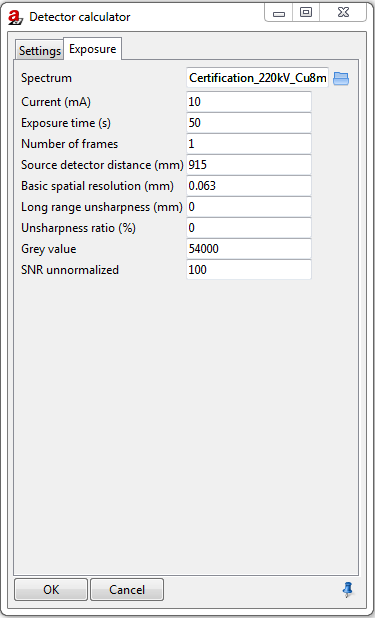
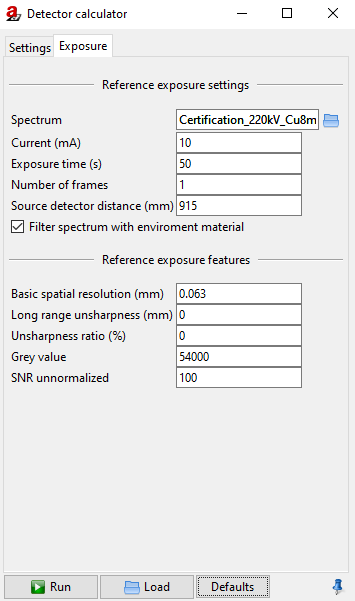
Module - DetectorCalc - neue Formatierung, Bilder, Text

Changed region(s): [[0.0, 0.0, 1.0, 1.0], [0.7437, 0.4193, 0.8366, 0.4493]]

diff --git a/source/modules-detectorcalc.rst b/source/modules-detectorcalc.rst
@@ -5,10 +5,11 @@
 DetectorCalc
 ============
 
-.. 3.4	DetectorCalc (incl. menu description)
+The **DetectorCalc** module opens the Detector calculator (:numref:`detectorcalcSettingsgeneral`). It is useful for the detector's flat panel settings and calculating the captured photons. 
 
-The DetectorCalc module opens the Detector calculator (:numref:`detectorcalcSettingsgeneral`). It is useful for the detector's flat panel settings and calculating the captured photons. 
-In addition to the more general DetectorCalc there is a simplified detector calculator: :ref:`DigRad <DigRadSection>`.
+.. hint::
+    
+    In addition to the more general DetectorCalc there is a simplified detector calculator: :ref:`DigRad <DigRadSection>`.
 
 .. _detectorcalcSettingsgeneral:
 .. figure:: pictures/modules-artist-detectorcalc-settings.png
@@ -17,7 +18,12 @@ In addition to the more general DetectorCalc there is a simplified detector calc
 
     Detector calculator, Settings.
 
-.. _DetectorCalcGeneralSettingsSubSection:
+.. _DetectorSettingsSubSection:
+
+Settings
+--------
+
+.. _DetectorCalcGeneralSettingsSubsubSection:
 
 General Settings
 ^^^^^^^^^^^^^^^^
@@ -31,7 +37,7 @@ Set the general settings for your new detector:
 * **Maximum grey value**
 * **Grey value quantum (GV)**
 
-.. _DetectorCalcGeneralSensitivitySubSection:
+.. _DetectorCalcGeneralSensitivitySubsubSection:
 
 Sensitivity
 ^^^^^^^^^^^
@@ -41,44 +47,38 @@ Set the sensitivity for your new detector:
 * **Material**
 * **Thickness (mm)**
 * **Steps**
-  
-The amount of Steps are relevant for the layer model. The more steps you set, the more accurate the simulation will be. 
-Thereby the execution time will increase. Typically two steps will be enough.
+
+  .. note::
+
+    The amount of Steps are relevant for the layer model. The more steps you set, the more accurate the simulation will be. 
+    Thereby the execution time will increase. Typically two steps will be enough.
 
 * **Min Energy (keV)**
 * **Max Energy (keV)**
 * **Signal Type**
   
-.. _DetectorCalcGeneralFiltrationSubSection:
+.. _DetectorCalcGeneralFiltrationSubsubSection:
 
 Filtration
 ^^^^^^^^^^
 
 It is possible to add a filtration over the new detector.
 
-        |16x16_list-add| Click on the green button to add a filter (default filter is Al with 1.0 mm thickness).
+|16x16_list-add| Click on the green button to add a filter (default filter is Al with 1.0 mm thickness).
 
-        |16x16_edit-delete| Click on the red button to delete a selected filter.
+|16x16_edit-delete| Click on the red button to delete a selected filter.
 
-If you want to change the settings of your filtration, click on the corresponding Material or Thickness. For the Material column you can choose a material of the editor list 
-(:guilabel:`Tools` → |16x16_edit-materials| **Materials**). For Thickness just enter your desired value (in mm).
+If you want to change the settings of your filtration, click on the corresponding **Material** or **Thickness**. For the Material column you can choose a material of the editor list 
+(:guilabel:`Tools` → |16x16_edit-materials| **Materials**). For **Thickness** just enter your desired value (in mm).
 
-The column Active enables to activate (Yes) or deactivate (No) the selected filter. Therefore use the left mouse button to choose Yes or No.
-Press OK to apply or Cancel to quit these settings.
+The column **Active** enables to activate (:class:`Yes`) or deactivate (:class:`No`) the selected filter. Therefore use the left mouse button to choose :class:`Yes` or :class:`No`.
 
-Reference shot
-^^^^^^^^^^^^^^
+.. _DetectorCalcExposureSubSection:
+
+Exposure - Reference shot
+-------------------------
 
 For creating a new detector it is necessary to set reference values. With those, the new detector will be calibrated (with available detector settings) and considered for calculations.
-
-.. _detectorcalc-exposure:
-.. figure:: pictures/modules-artist-detectorcalc-exposure.png
-    :alt: Detector calculator, Exposure
-    :width: 60.3%
-
-    Detector calculator, Exposure.
-
-.. _DetectorCalcReferenceshotSubSection:
 
 Set the reference values for your new detector:
 
@@ -91,6 +91,17 @@ Set the reference values for your new detector:
 * **Unsharpness ratio (%)**
 * **Grey value**
 * **SNR unnormalized**
-  
- Afterwards the new detector can be loaded and applied at **Parameter Panel** → **Detector** → **Characteristic** → **detector type** → **Extern**. 
- Another possibility is that the new detector with the file extension .aRTdet can also be drop-in to the aRTist scene.
+
+.. _detectorcalc-exposure:
+.. figure:: pictures/modules-artist-detectorcalc-exposure.png
+    :alt: Detector calculator, Exposure
+    :width: 60.3%
+
+    Detector calculator, Exposure.
+
+Press :guilabel:`Run` to apply these settings and save them as an :code:`.aRTdet` file or :guilabel:`Default` to reset them.  
+Afterwards the new detector can be loaded |16x16_document-open-folder| :guilabel:`Load` and applied at **Parameter Panel** → **Detector** → **Characteristic** → **detector type** → **Extern**. 
+
+.. note::
+    
+    Another possibility is that the new detector with the file extension :code:`.aRTdet` can also be drop-in to the |artist| scene.
